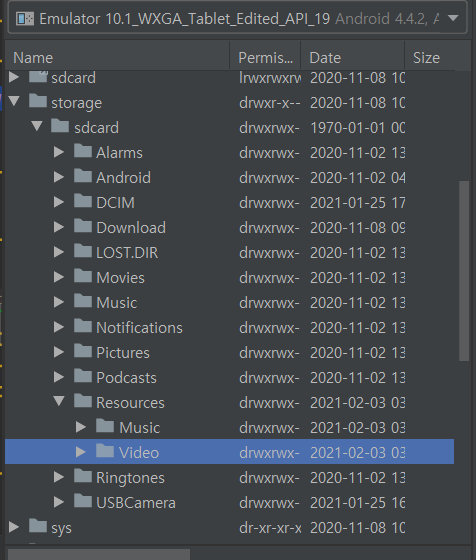
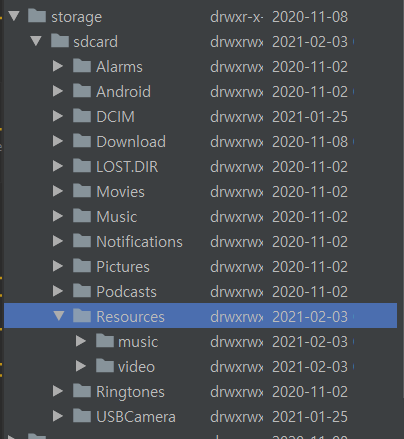
Chore: Change resource path (small-big case change)

diff --git a/emotion_recommend.py b/emotion_recommend.py
@@ -50,7 +50,7 @@ def recommend_by_emotion(emotion, path):
         item = item_dict['item_name']
         amount_to_generate = item_dict['amount_to_generate']
         excel_path = './excel/' + item + '/' + emotion.lower() + '.xlsx' 
-        file_path = path + '/' + item + '/' + emotion +'/'
+        file_path = path + '/' + item + '/'
         raw_json_dict[item] = globals()['recommend_' + item](excel_path, file_path, amount_to_generate)
 
     return raw_json_dict

diff --git a/README.md b/README.md
@@ -127,7 +127,7 @@
 
 - 음악, 비디오 파일 저장 경로
 
-  - ROOT_PATH/Resources/(Music, Video)/(파일명)
+  - ROOT_PATH/Resources/(music, video)/(파일명)
 
     ![File path pic](./assets/file_path.PNG)
 
